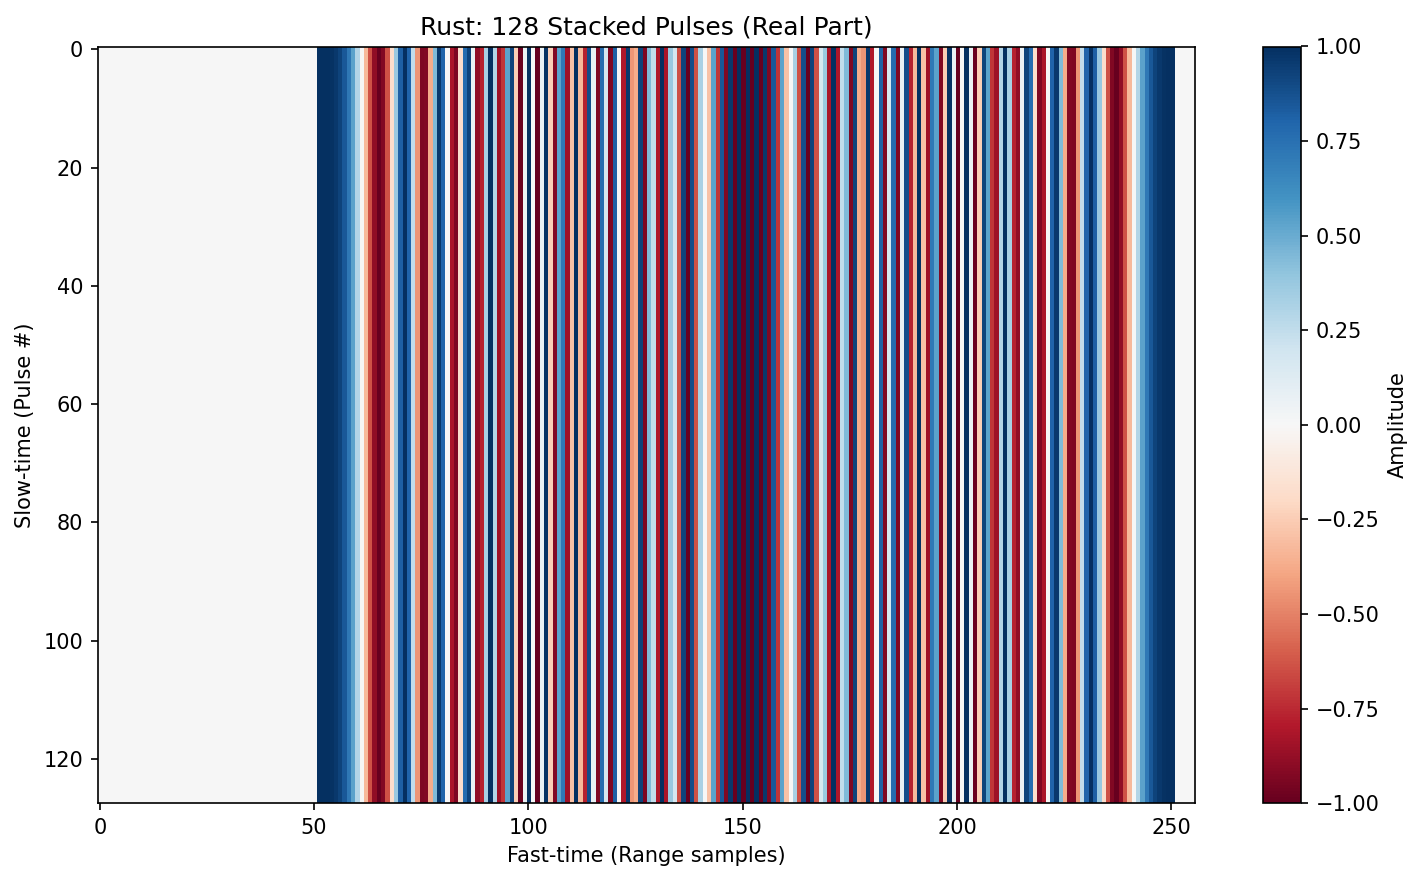
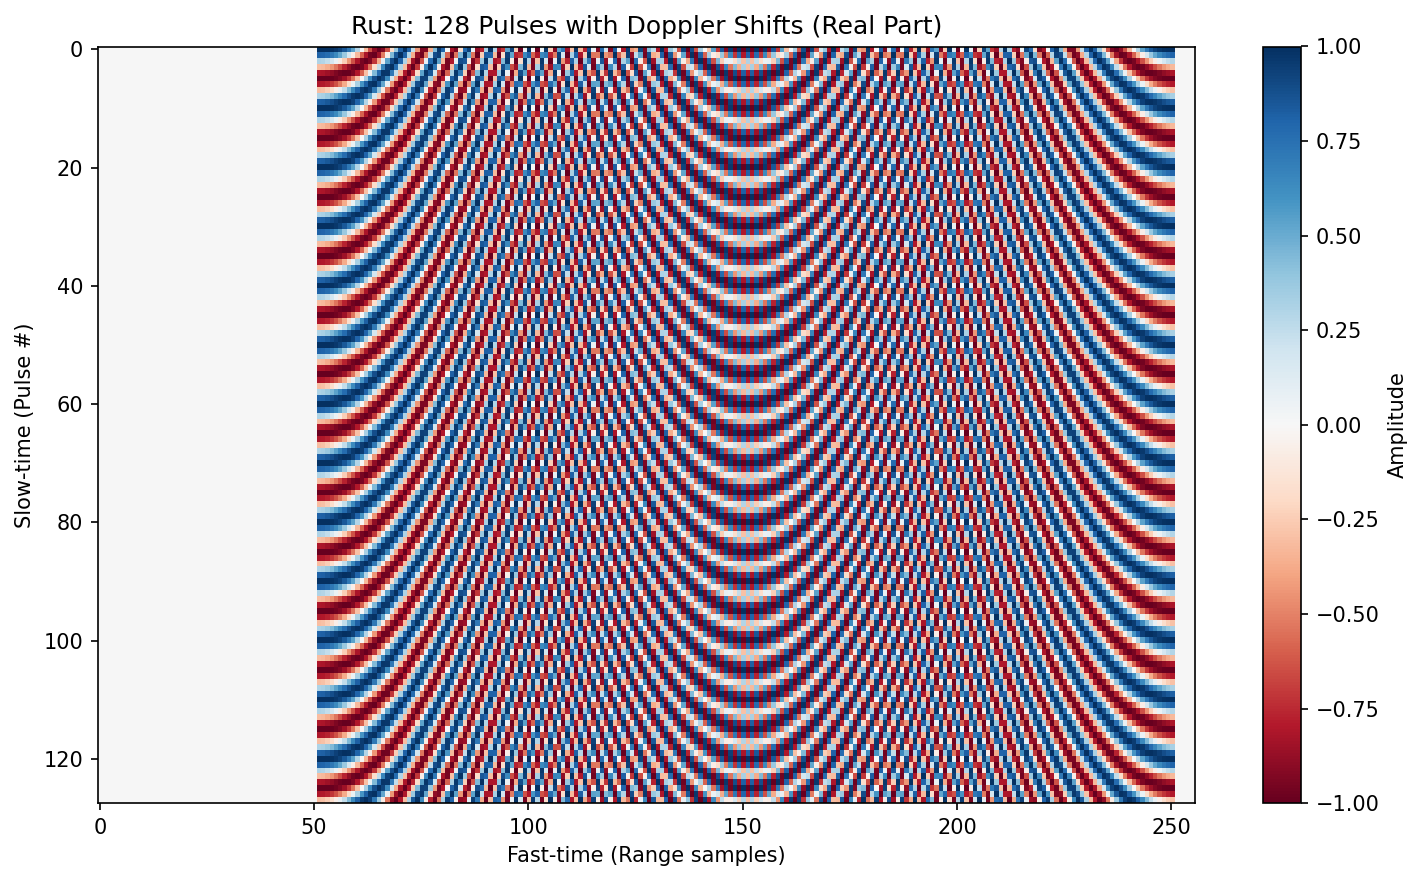
Add comprehensive plots showing all intermediate results for both Rust and Python radar demos

diff --git a/examples/generate_rust_plots.py b/examples/generate_rust_plots.py
@@ -40,10 +40,21 @@ def generate_lfm_pulse():
     return signal
 
 def stack_pulses_rust(pulse, num_pulses=128):
-    """Stack pulses matching Rust implementation"""
+    """Stack pulses with Doppler shifts matching Rust implementation"""
     num_samples = len(pulse)
-    stacked = np.tile(pulse, num_pulses)
-    return stacked.reshape(num_pulses, num_samples)
+    
+    # Doppler simulation parameters (matching Rust/Python demos)
+    doppler_freq = 1000  # Hz
+    prf = 10000  # Hz
+    
+    stacked = np.zeros((num_pulses, num_samples), dtype=complex)
+    for pulse_idx in range(num_pulses):
+        # Add Doppler shift
+        phase_shift = 2 * np.pi * doppler_freq * pulse_idx / prf
+        doppler_shift = np.exp(1j * phase_shift)
+        stacked[pulse_idx, :] = pulse * doppler_shift
+    
+    return stacked
 
 def range_compress_rust(stacked, reference):
     """Range compression matching Rust implementation"""
@@ -63,11 +74,24 @@ def range_compress_rust(stacked, reference):
     
     return compressed
 
+def doppler_compress_rust(compressed, num_pulses, num_samples):
+    """Doppler compression via FFT along slow-time"""
+    # Reshape to 2D (pulses x samples)
+    data_2d = compressed.reshape(num_pulses, num_samples)
+    
+    # FFT along slow-time (axis=0) for each range bin
+    range_doppler = np.fft.fft(data_2d, axis=0)
+    
+    return range_doppler
+
 # Generate data
 print("Generating Rust radar processing data...")
 pulse = generate_lfm_pulse()
-stacked = stack_pulses_rust(pulse)
+num_pulses = 128
+num_samples = len(pulse)
+stacked = stack_pulses_rust(pulse, num_pulses)
 compressed = range_compress_rust(stacked, pulse)
+range_doppler = doppler_compress_rust(compressed, num_pulses, num_samples)
 
 # Create plots
 print("Creating Rust radar plots...")
@@ -96,12 +120,12 @@ plt.savefig('rust_01_lfm_pulse.png', dpi=150, bbox_inches='tight')
 print("Saved: rust_01_lfm_pulse.png")
 plt.close()
 
-# Plot 2: Pulse Stacking (Real part to show actual signal)
+# Plot 2: Pulse Stacking with Doppler (Real part to show actual signal)
 fig, ax = plt.subplots(1, 1, figsize=(10, 6))
 im = ax.imshow(stacked.real, aspect='auto', cmap='RdBu', interpolation='nearest', vmin=-1, vmax=1)
 ax.set_xlabel('Fast-time (Range samples)')
 ax.set_ylabel('Slow-time (Pulse #)')
-ax.set_title('Rust: 128 Stacked Pulses (Real Part)')
+ax.set_title('Rust: 128 Pulses with Doppler Shifts (Real Part)')
 plt.colorbar(im, ax=ax, label='Amplitude')
 plt.tight_layout()
 plt.savefig('rust_02_pulse_stacking.png', dpi=150, bbox_inches='tight')
@@ -111,32 +135,56 @@ plt.close()
 # Plot 3: Range Compression
 fig, (ax1, ax2) = plt.subplots(2, 1, figsize=(12, 8))
 
-# Before compression (first pulse)
-ax1.plot(np.abs(stacked.flatten()), 'b-', linewidth=0.5)
-ax1.set_xlabel('Sample Index')
-ax1.set_ylabel('Magnitude')
+# Before compression (show 2D view)
+ax1.imshow(np.abs(stacked), aspect='auto', cmap='viridis', interpolation='nearest')
+ax1.set_xlabel('Fast-time (Range samples)')
+ax1.set_ylabel('Slow-time (Pulse #)')
 ax1.set_title('Rust: Before Range Compression')
-ax1.grid(True, alpha=0.3)
 
-# After compression
-compressed_mag = np.abs(compressed)
-ax2.plot(compressed_mag, 'r-', linewidth=0.5)
+# After compression (show 2D view)
+compressed_2d = compressed.reshape(num_pulses, num_samples)
+ax2.imshow(np.abs(compressed_2d), aspect='auto', cmap='hot', interpolation='nearest')
 ax2.set_xlabel('Range Bin')
-ax2.set_ylabel('Magnitude')
-ax2.set_title(f'Rust: After Range Compression (Peak: {compressed_mag.max():.2f})')
-ax2.grid(True, alpha=0.3)
-
-# Mark peak
-peak_idx = np.argmax(compressed_mag)
-ax2.axvline(peak_idx, color='g', linestyle='--', alpha=0.7, label=f'Peak @ {peak_idx}')
-ax2.legend()
+ax2.set_ylabel('Pulse #')
+ax2.set_title(f'Rust: After Range Compression')
 
 plt.tight_layout()
 plt.savefig('rust_03_range_compression.png', dpi=150, bbox_inches='tight')
 print("Saved: rust_03_range_compression.png")
 plt.close()
 
+# Plot 4: Range-Doppler Map
+fig, (ax1, ax2) = plt.subplots(1, 2, figsize=(14, 6))
+
+# Linear scale
+im1 = ax1.imshow(np.abs(range_doppler), aspect='auto', cmap='jet', interpolation='nearest')
+ax1.set_xlabel('Range Bin')
+ax1.set_ylabel('Doppler Bin')
+ax1.set_title('Rust: Range-Doppler Map (Linear Scale)')
+plt.colorbar(im1, ax=ax1, label='Magnitude')
+
+# Find and mark peak
+peak_idx = np.unravel_index(np.argmax(np.abs(range_doppler)), range_doppler.shape)
+ax1.plot(peak_idx[1], peak_idx[0], 'wx', markersize=15, markeredgewidth=2, 
+         label=f'Peak @ Doppler={peak_idx[0]}, Range={peak_idx[1]}')
+ax1.legend()
+
+# dB scale
+rd_db = 20 * np.log10(np.abs(range_doppler) + 1e-10)
+im2 = ax2.imshow(rd_db, aspect='auto', cmap='jet', interpolation='nearest')
+ax2.set_xlabel('Range Bin')
+ax2.set_ylabel('Doppler Bin')
+ax2.set_title('Rust: Range-Doppler Map (dB Scale)')
+plt.colorbar(im2, ax=ax2, label='Magnitude (dB)')
+ax2.plot(peak_idx[1], peak_idx[0], 'wx', markersize=15, markeredgewidth=2)
+
+plt.tight_layout()
+plt.savefig('rust_04_range_doppler_map.png', dpi=150, bbox_inches='tight')
+print("Saved: rust_04_range_doppler_map.png")
+plt.close()
+
 print("\nRust plots generated successfully!")
 print("  - rust_01_lfm_pulse.png")
 print("  - rust_02_pulse_stacking.png")
 print("  - rust_03_range_compression.png")
+print("  - rust_04_range_doppler_map.png")
